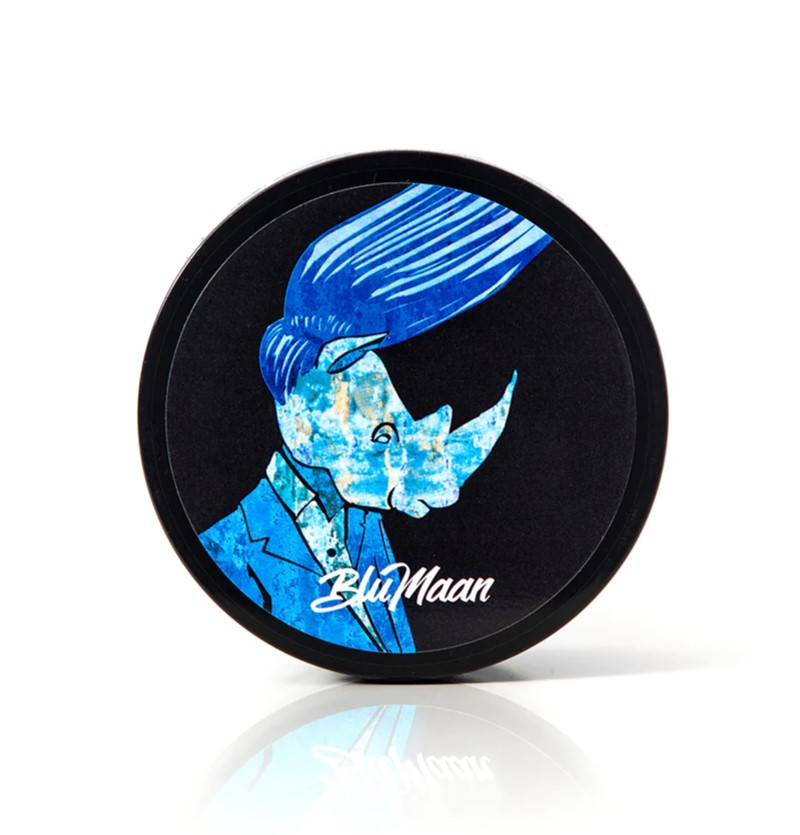
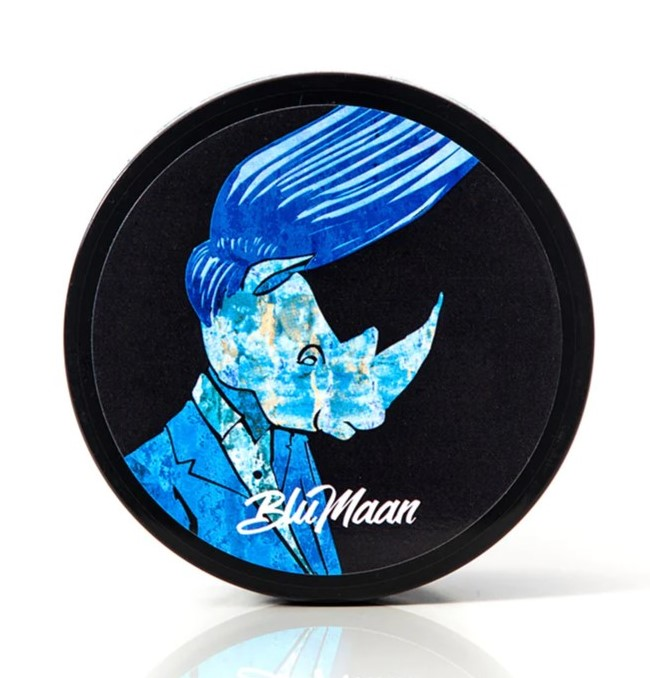
2

diff --git a/src/components/topic/main.js b/src/components/topic/main.js
@@ -11,7 +11,7 @@ function Topic() {
                 <h1>We have the best hair products for you</h1>
                 <h4>Upgrade your daily routine with our premium men's hair products. Experience confidence through exceptional grooming.</h4>
             </div>   
-             <img src="" alt="Meraki"/>
+             <img src="https://github.com/mkuba2006/site/blob/master/public/images/Blumaan.jpg?raw=true" alt="Meraki"/>
              <div className={classes.third}>
                 <h5 className={classes.follow}>FOLLOW US</h5>
                 <FontAwesomeIcon icon={faInstagram} />
